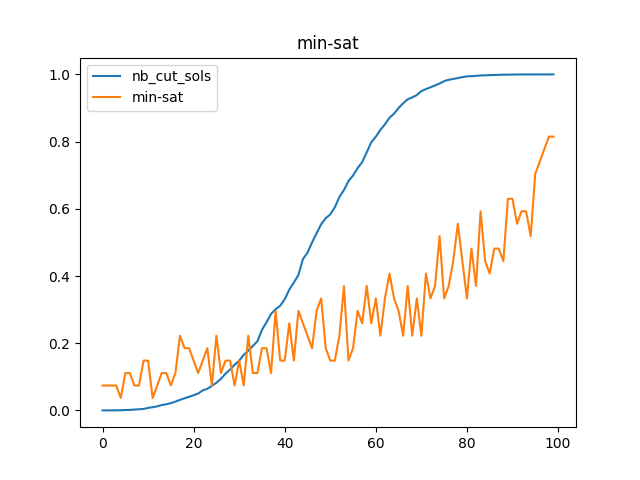
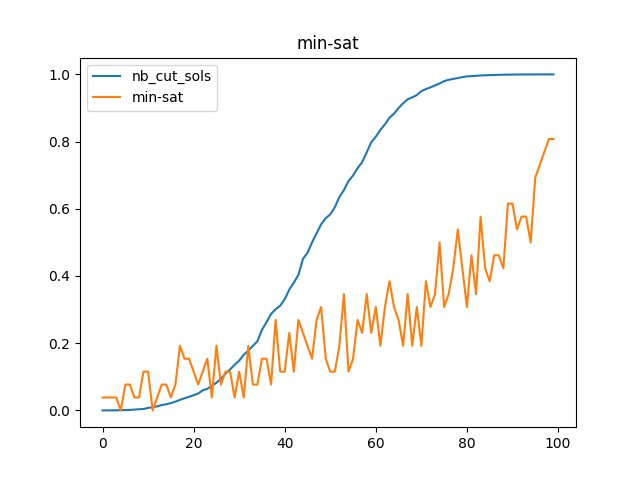
split up the different plots for all the measures

Changed region(s): [[0.1562, 0.3438, 0.8438, 0.8438], [0.8438, 0.2812, 0.875, 0.3438], [0.0625, 0.5625, 0.125, 0.5938]]

diff --git a/python/strength/main.py b/python/strength/main.py
@@ -29,12 +29,13 @@ if __name__ == '__main__':
     rows = an.sort_first(rows)
     # print(rows)
     rows = an.norm_second(rows)
+    rows[4] = 1 - rows[4]
+    rows[6] = 1 - rows[6]
     for i in range(1, len(rows)):
+        rows[i] -= np.min(rows[i])
         rows[i] = rows[i] / np.max(rows[i])
     # rows[4] = rows[4] / np.max(rows[4])
-    rows[4] = 1 - rows[4]
     # rows[6] = rows[6] / np.max(rows[6])
-    rows[6] = 1 - rows[6]
     # rows = an.normalise_first(rows, max_vars)
     cors = an.correlation(rows)
     print(cors)

diff --git a/python/strength/analyse.py b/python/strength/analyse.py
@@ -88,7 +88,7 @@ def add_w_average(rows):
     # add weighted average
     for i, row in enumerate(rows):
         heur, size, minsat, stddev, maxsat = float(row[33]), float(row[35]), float(row[36]), float(row[37]), float(row[38])
-        rows[i].append(str((heur + size*0.7 + minsat*0.8 + stddev*0.7 + maxsat*0.8) / 4))
+        rows[i].append(str((heur*2 + size + minsat + stddev + maxsat)))
     return rows
 
 def add_avg(rows):
